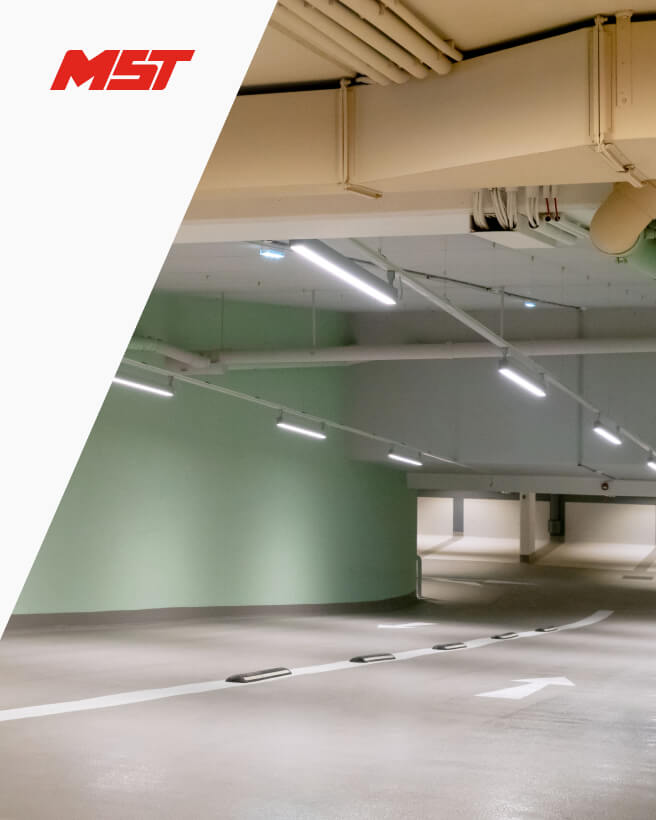
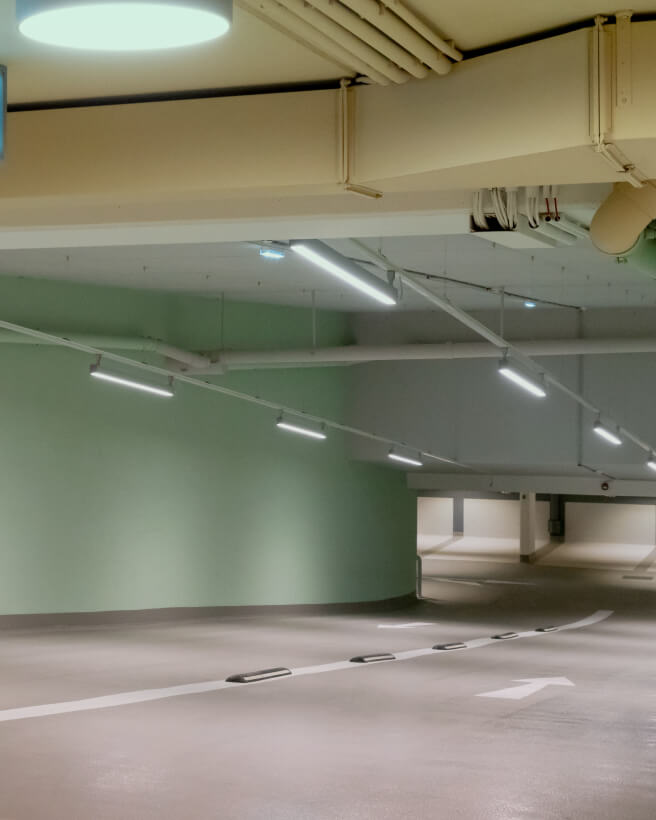
teaser wip

diff --git a/src/lib/latest-work/Teaser.svelte b/src/lib/latest-work/Teaser.svelte
@@ -13,6 +13,9 @@
     let topPosition;
     let windowHeight;
     let relativePosition;
+    let mappedOpacityPosition;
+    let mappedScalePosition;
+    let scale = 1;
     let opacity = 1;
 
     let element;
@@ -29,14 +32,23 @@
     // transform opacity on scroll
     function parseScroll() {
         topPosition = teaser.getBoundingClientRect().top;
-        relativePosition = map(topPosition / windowHeight / 2, -0.9, -0.4, 0, 1); // opacity 0 when 90%, 1 when 50% scrolled
+        relativePosition = topPosition / windowHeight / 1.5;
 
-        if (relativePosition <= 0) {
+        mappedScalePosition = map(relativePosition, -1, 0.5, 1.3, 1);
+        mappedOpacityPosition = map(relativePosition, -0.9, -0.4, 0, 1); // opacity 0 when 90%, 1 when 40% scrolled
+
+        if (mappedScalePosition > 1.5) {
+            scale = 1.5;
+        } else {
+            scale = mappedScalePosition;
+        }
+
+        if (mappedOpacityPosition <= 0) {
             opacity = 0;
-        } else if (relativePosition > 1) {
+        } else if (mappedOpacityPosition > 1) {
             opacity = 1;
         } else {
-            opacity = relativePosition;
+            opacity = mappedOpacityPosition;
         }
     }
 </script>
@@ -58,7 +70,7 @@
             <a href="#" title="Projekt {title} ansehen">
                 <picture>
                     <source media="(min-width: 768px)" srcset={imageLg}>
-                    <img src={imageSm} alt={title} loading="lazy" />
+                    <img src={imageSm} alt={title} loading="lazy" style="transform: scale({scale});" />
                 </picture>
             </a>
         </figure>
@@ -91,7 +103,7 @@
         &::after {
             content: '';
             display: block;
-            height: calc(var(--app-height, 100vh) * 2);
+            height: calc(var(--app-height, 100vh) * 1.5);
             width: 100%;
             pointer-events: none;
             position: relative;
@@ -195,8 +207,16 @@
             justify-self: center;
         }
 
+        a {
+            display: flex;
+        }
+
         picture {
             flex-basis: 100%;
+        }
+
+        img {
+            transform-origin: bottom center;
         }
     }
 
@@ -240,6 +260,10 @@
                 font-weight: 500;
                 letter-spacing: 0.03em;
                 padding: #{fn.rem(10)} 0;
+
+                @media (min-width: var.$breakpoint-md) {
+                    font-size: #{fn.rem(14)};
+                }
 
                 span {
                     pointer-events: none;

diff --git a/src/lib/latest-work/Navigation.svelte b/src/lib/latest-work/Navigation.svelte
@@ -1,0 +1,41 @@
+<script lang="ts">
+    export let scrollY;
+
+    let nav;
+    let topPosition;
+    let relativePosition;
+    let windowHeight;
+
+    function parseScroll() {
+        topPosition = nav.getBoundingClientRect().top;
+        relativePosition = topPosition / windowHeight;
+
+        console.log(relativePosition);
+    }
+</script>
+
+<svelte:window on:scroll={parseScroll} bind:innerHeight={windowHeight} />
+
+<nav bind:this={nav}>
+    <pre>{scrollY}</pre>
+    <div></div>
+    <div></div>
+    <div></div>
+</nav>
+
+<style lang="scss">
+    nav {
+        position: sticky;
+        bottom: 0;
+        display: flex;
+        justify-content: center;
+        gap: #{fn.rem(8)};
+        padding: 0 var(--core-padding) var(--core-padding);
+
+        div {
+            width: #{fn.rem(8)};
+            height: #{fn.rem(8)};
+            background: var(--on-base);
+        }
+    }
+</style>

diff --git a/src/lib/latest-work/LatestWork.svelte b/src/lib/latest-work/LatestWork.svelte
@@ -3,6 +3,7 @@
     import IntersectionObserver from "svelte-intersection-observer";
     import { spring } from 'svelte/motion';
     import Teaser from "./Teaser.svelte";
+    // import Navigation from "./Navigation.svelte";
     import wheel from './wheel.svg?raw';
 
 	export let scrollY;
@@ -76,7 +77,7 @@
             </Teaser>
         </div>
     </div>
-
+    <!-- <Navigation scrollY={scrollY} /> -->
 </section>
 
 <style lang="scss">
